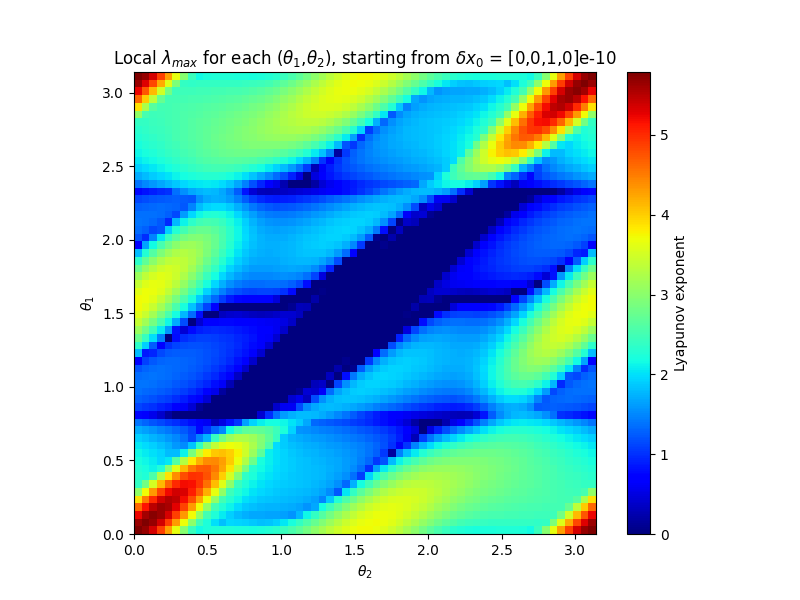
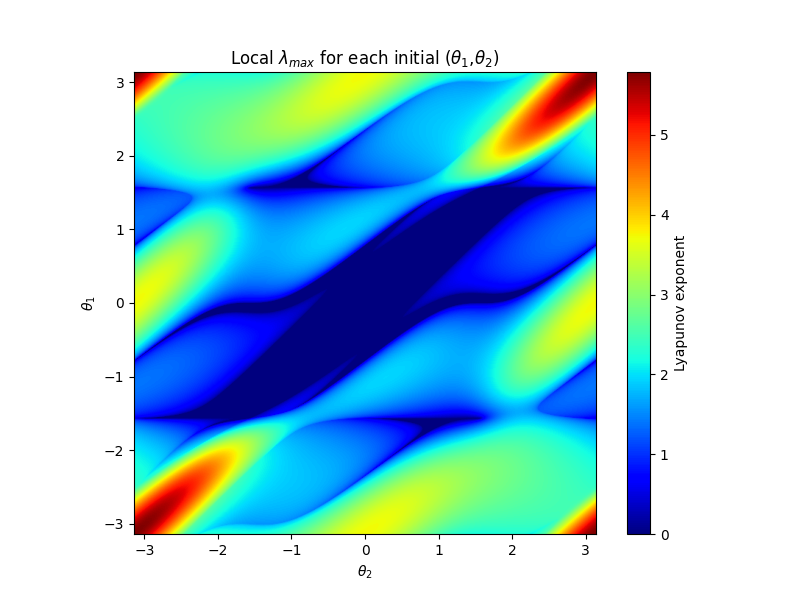
small commit jan8

diff --git a/Python codes/Lyapunov exponents/local_lyapunov_cmap.py b/Python codes/Lyapunov exponents/local_lyapunov_cmap.py
@@ -38,7 +38,7 @@ l2 = 1
 g = 9.81
 
 # Time parameters
-theta_N = 30
+theta_N = 314 
 dt = 0.01
 t_max = 100
 N = int(np.floor(t_max/dt))+1
@@ -104,7 +104,7 @@ with tqdm(total=2*theta_N*2*theta_N*N) as pbar: # Progression bar
 
 # Plot the array as a colormap
 fig, ax = plt.subplots(figsize=(8, 6))
-cax = ax.imshow(local_lyap_pq, cmap='jet', extent=[0, np.pi, 0, np.pi], origin='lower')
+cax = ax.imshow(local_lyap_pq, cmap='jet', extent=[-np.pi, np.pi, -np.pi, np.pi], origin='lower')
 
 ax.set_xlabel(r'$\theta_2$')
 ax.set_ylabel(r'$\theta_1$')

diff --git a/Python codes/Lyapunov exponents/global_lyapunov_cmap.py b/Python codes/Lyapunov exponents/global_lyapunov_cmap.py
@@ -26,9 +26,9 @@ g = 9.81
 
 # Time parameters
 t_step = 20
-theta_N = 120
-n_step = 25
-dt = 0.0025
+theta_N = 60
+n_step = 20
+dt = 0.01
 N = int(np.floor(t_step/dt))+1
 
 # Initial dx0
